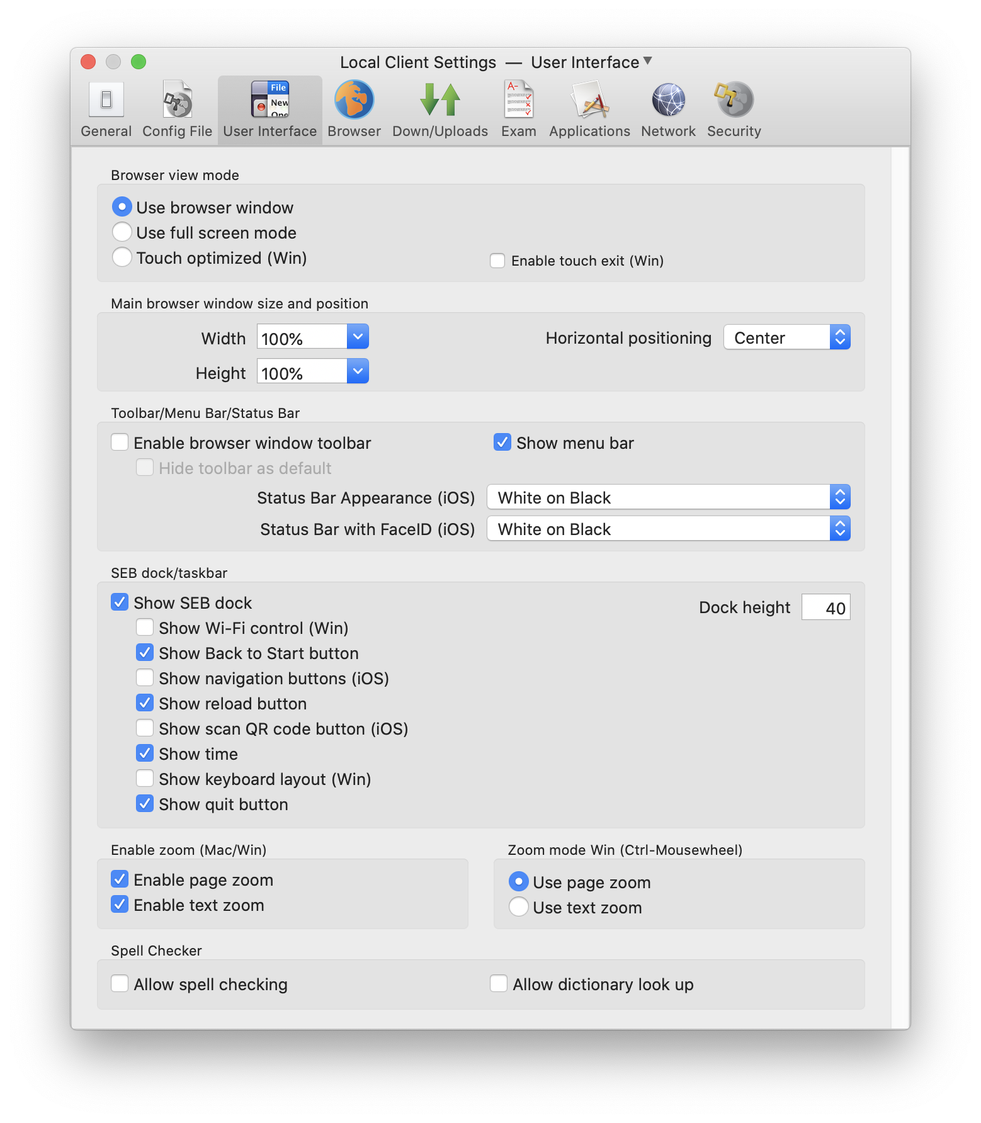
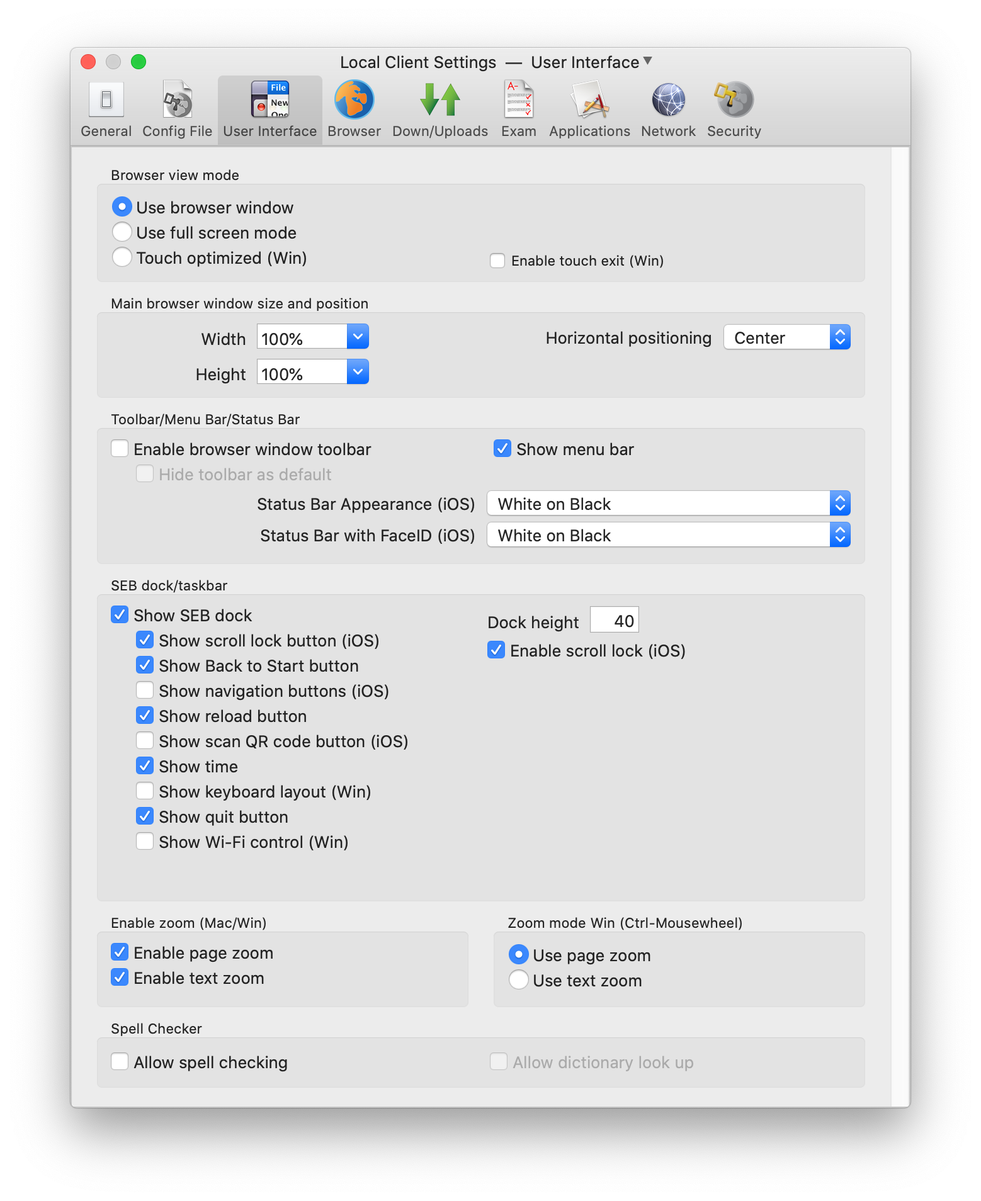
Updated changed settings in the macOS user manual.

diff --git a/macosx/mac_usermanual_en.html b/macosx/mac_usermanual_en.html
@@ -302,7 +302,7 @@
 
           <h2 class="page-header sebnavbar-link" id="introduction">
             <a class="anchorjs-link" href="#introduction"></a>
-            Safe Exam Browser 2.2.1 for macOS
+            Safe Exam Browser 2.3 for macOS
           </h2>
     
           <p>Safe Exam Browser – SEB for macOS opens a web browser window without navigation elements and locks the computer into a kiosk mode, which prevents from switching to other applications or quitting SEB untimely. <span class="half_linespace">SEB enables secure exams on unmanaged computers like students' own laptops as well as in managed environments</span>. Currently SEB integrates with the wide spread learning management systems (LMS) Moodle, OpenOLAT, ILIAS and several non-commercial and commercial exam systems, as for example Inspera Assessment, Dugga, Exam.net or EvaExam. Generally it can easily be used with most web-based online quiz and e-assessment systems.</p>
@@ -485,12 +485,12 @@
 			
           <h4 class="seb-section-header sebnavbar-link" id="ChangesIn2.2">
             <a class="anchorjs-link" href="#ChangesIn2.2"></a>
-            Changes in Safe Exam Browser 2.2.1
-          </h4>
-          <p>SEB 2.2.1 for macOS includes changes which could require you to modify your SEB settings:</p>
+            Changes in Safe Exam Browser 2.3
+          and 2.2</h4>
+          <p>SEB 2.3 for macOS includes changes which could require you to modify your SEB settings (some of these changes were introduced with SEB 2.2.1):</p>
 <ul id="seblist4">
-          <li><strong>SEB 2.2.1 for macOS uses a different policy to decide if it can be reconfigured when a seb(s) URL is opened and a .seb config file downloaded: </strong>When running in a secure session (a quit password is set in the currently active settings), SEB 2.2.1 cannot be reconfigured, even if it's using the persisted client settings. Earlier versions could always be reconfigured when using client settings. If you want to allow reconfiguring SEB by opening a seb(s) URL while running in a secure session, then you need to use the &quot;Allow Reconfiguring&quot; and &quot;Reconfiguring Config URL&quot; options in the <a href="#ExamPane">Exam pane</a>. For the same behavior as in previous versions, you can enable &quot;Allow Reconfiguring&quot; and set &quot;Reconfiguring Config URL&quot; to &quot;*&quot; (wildcard symbol, meaning any seb(s) URL or download URL of a .seb config file is allowed to reconfigure SEB) in your SEB client settings. This policy settings for reconfiguring are already used by SEB for iOS and will also be introduced in SEB 3.1 for Windows.           </li>
-            <li><strong>Preset prohibited processes are required to be quit before starting an exam and are automatically added to any config you open with SEB 2.2.1.</strong> This doesn't alter the Config Key hash. The Browser Exam Key hash value is changed, but that key you anyways have to determine by loading the according SEB config file in SEB 2.2.1 and copy-paste the key from the <a href="#ExamPane">Exam pane</a>. You cannot remove those preset prohibited processes, but you can deactivate them individually using their &quot;Active&quot; parameter. You can change other properties of the prohibited process, although not all of these parameters are used by SEB for macOS. See the <a href="#ProhibitedProcessesSection">Applications/Prohibited Processes pane</a>.  </li>
+          <li><strong>SEB &gt;= 2.2.1 for macOS uses a different policy to decide if it can be reconfigured when a seb(s) URL is opened and a .seb config file downloaded: </strong>When running in a secure session (a quit password is set in the currently active settings), SEB 2.2.1 cannot be reconfigured, even if it's using the persisted client settings. Earlier versions could always be reconfigured when using client settings. If you want to allow reconfiguring SEB by opening a seb(s) URL while running in a secure session, then you need to use the &quot;Allow Reconfiguring&quot; and &quot;Reconfiguring Config URL&quot; options in the <a href="#ExamPane">Exam pane</a>. For the same behavior as in previous versions, you can enable &quot;Allow Reconfiguring&quot; and set &quot;Reconfiguring Config URL&quot; to &quot;*&quot; (wildcard symbol, meaning any seb(s) URL or download URL of a .seb config file is allowed to reconfigure SEB) in your SEB client settings. This policy settings for reconfiguring are already used by SEB for iOS and will also be introduced in SEB 3.1 for Windows.           </li>
+            <li><strong>Preset prohibited processes are required to be quit before starting an exam and are automatically added to any config you open with SEB &gt;= 2.2.1.</strong> This doesn't alter the Config Key hash. The Browser Exam Key hash value is changed, but that key you anyways have to determine by loading the according SEB config file in SEB 2.2.1 and copy-paste the key from the <a href="#ExamPane">Exam pane</a>. You cannot remove those preset prohibited processes, but you can deactivate them individually using their &quot;Active&quot; parameter. You can change other properties of the prohibited process, although not all of these parameters are used by SEB for macOS. See the <a href="#ProhibitedProcessesSection">Applications/Prohibited Processes pane</a>.  </li>
           <li><strong>New separate Mac setting for the Private Clipboard feature</strong>, <a href="#SecurityPane">Security pane</a> &quot;Enforce private clipboard on Mac&quot; (settings key enablePrivateClipboardMacEnforce), by default enabled. If enabled, then the private clipboard is used, even if the old setting in the <a href="#SecurityPane">Security pane</a> &quot;Use private clipboard&quot; is disabled. The reason for the separate Mac setting is, that enabling private clipboard in the Windows version sometimes causes web compatibility issues (which isn't the case in the Mac version). If you intentionally disabled &quot;Use private clipboard&quot; (key enablePrivateClipboard=false) for the Mac version, then you have to set enablePrivateClipboardMacEnforce=false in addition.</li>
           <li><strong>New separate SEB for macOS settings for allowing screen capture/recording</strong>, window capture and to use the legacy method for blocking screen shots. SEB 2.2.1 for macOS is no longer using the old setting &quot;Enable screen capture&quot; which corresponded with the setting &quot;Enable Print Screen&quot; in Windows. Instead, these new settings allow to control access to the screen while SEB is running in a gradual way. The new setting &quot;Allow screen capture/recording&quot; (key allowScreenCapture) controls a system process, which since macOS 10.14 Mojave is used for the macOS screen recording feature (cmd+shift+5) and for screen shots. The new setting &quot;Allow window capture (screen shots)&quot; (key allowWindowCapture) controls if other processes are able to read the contents of the windows displayed by SEB. Depending which system APIs are used to read window or screen contents, those settings have a different effect: If allowScreenCapture=true and allowWindowCapture=false, then macOS screen shots using cmd-shift-3 and -4 can still be taken, but don't show SEB's windows (only the desktop background). On screen recording videos taken with cmd-shift-5, SEB's windows will still be visible, unless allowScreenCapture is set to false. When the new setting &quot;Block screen shots (Legacy)&quot; (key blockScreenShotsLegacy) is enabled, then SEB uses the method to redirect and delete screen shots which had to be used with macOS 10.9 and older. Those separate settings may allow to use SEB with specific remote proctoring solutions which need access to the screen and SEB's window contents.</li>
           <li><strong>New SEB for macOS setting &quot;Enforce blocking screen sharing on Mac&quot;</strong> (key screenSharingMacEnforceBlocked, default value true/enabled), which overrides the original screen sharing setting &quot;Allow (network) screen sharing&quot; (key allowScreenSharing) on Mac clients. This allows for example SEB for Windows to be used in Windows remote sessions (RDP), while still blocking VNC-based macOS screen sharing and remote management on Mac SEB clients. </li>
@@ -618,7 +618,8 @@
             <li><span class="quote">Show SEB dock</span>:  The SEB dock is displaying an icon for the SEB browser with controls for its open browser windows and a quit button, plus additional optional buttons and information widgets (see below and in the <a href="mac_usermanual_en.html#ExamPane">Exam pane</a> for the back to start button). Clicking the SEB icon in the dock and holding the left mouse button down or a secondary (right mouse button) click displays a popup menu with all open browser windows, the main browser window is at the bottom. With this menu you can switch between open browser windows.
               <ul id="seblist">
                 <li><span class="quote">Dock height</span>: SEB Dock height in points (pixel height x 2 on Retina HiDPI displays). In SEB for Windows display DPI settings are now also taken in account, in touch optimized mode task bar is scaled up in addition.</li>
-                <li><span class="quote">Show Wi-Fi control</span> (Win): Allows to reconnect to Wi-Fi networks which have previously been connected to.</li>
+                <li><span class="quote">Show scroll lock button</span> (iOS): Shows the scroll lock button in the Dock if the scroll lock feature is enabled (iOS only).</li>
+                <li><span class="quote">Enable scroll lock</span> (iOS): With the scroll lock button and/or side menu item, web page scrolling, selecting text and the text magnifier can be disabled. This can facilitate using drag-and-drop and drawing question types. (iOS only)</li>
                 <li><span class="quote">Show Back to Start button</span>: Shows the Back to Start button, if this feature in configured in the Exam pane.</li>
                 <li><span class="quote">Show navigation buttons</span> (iOS): Shows navigation buttons (back/forward) in the SEB for iOS Dock. Otherwise these buttons are displayed in the browser toolbar (if enabled), or in the side menu.</li>
                 <li><span class="quote">Show reload button</span>: This button  reloads the current web page. Shows warning if enabled in the Browser  pane.</li>
@@ -626,13 +627,14 @@
                 <li><span class="quote">Show time</span>: Displays current time in SEB task bar: This is for example helpful if you decide to ban personal watches in exams (because of smartwatches).</li>
                 <li><span class="quote">Show keyboard layout</span> (Win): Shows current keyboard layout and allows to switch to other keyboard layouts which have been enabled in Windows.</li>
                 <li><span class="quote">Show quit button</span>: Shows the Quit SEB/Session (iOS) Dock button.</li>
+                <li><span class="quote">Show Wi-Fi control</span> (Win): Allows to reconnect to Wi-Fi networks which have previously been connected to.</li>
               </ul>
             </li>
             <li><span class="quote">Enable page zoom</span>: Pages can be zoomed with Cmd +/- or the commands in the view menu and buttons in browser window toolbar (Mac) or with Ctrl-Mousewheel (Win).</li>
             <li><span class="quote">Enable text zoom</span>: Text in browser windows can be zoomed with Ctrl - Cmd +/- or the commands in the view menu and buttons in browser window toolbar (Mac) or with Ctrl-Mousewheel (Win).</li>
             <li><span class="quote">Zoom Mode</span> (Win): Zoom whole web pages or just text using Ctrl-Mousewheel (only in Windows version)</li>
             <li><span class="quote">Allow spell checking</span>: Allow using check spelling/grammar and 'correct spelling automatically'</li>
-            <li><span class="quote">Allow dictionary look up</span>: Allow looking up text elements on a web site using the 3-finger tap on a trackpad or Ctrl-Cmd-D</li>
+            <li><span class="quote">Allow dictionary look up</span>: Allow looking up text elements on a web site using the 3-finger tap on a trackpad or Ctrl-Cmd-D. Not possible with the AAC macOS kiosk mode.</li>
           </ul>
           
           <h4 class="seb-section-header sebnavbar-link" id="BrowserPane">
@@ -790,10 +792,10 @@
             <li><span class="quote">Clear on session end</span>: Session cookies should be cleared when ending the current exam session (when reconfiguring SEB).</li>
           </ul>
       
-		  <h5>Query String Parameter (iOS)</h5>
+		  <h5>Query String Parameter</h5>
 		  <p>The seb(s):// link to the config file can contain an additional query string, separated from the main URL by '?' or '??' (if the URL itself doesn't contain a query). SEB will then append this query string to the Start URL. This feature can for example be used to pass an individual login token to an exam system when SEB is started by opening an seb(s) link  in another browser, without having to generate an individual config file for each user.</p>
 		  <ul>
-            <li><span class="quote">Allow Query Parameter</span>: If a seb(s):// link contains an additional query string, SEB appends it to the exam's Start URL. Currently only supported in SEB for iOS.</li>
+            <li><span class="quote">Allow Query Parameter</span>: If a seb(s):// link contains an additional query string, SEB appends it to the exam's Start URL.</li>
           </ul>
       
 		  <h5>Exam Deep Linking (iOS)</h5>
@@ -839,7 +841,7 @@
             <li><span class="quote">Description</span>: Optional, should explain what kind of process this is, because this might not be obvious only from the executable's name.</li>
             <li><span class="quote">OS</span>: Indicates on which operating system the permitted process runs (currently only the option <span class="quote">Win</span> works).</li>
             <li><span class="quote">Executable</span>: File name of the executable, <strong>which should not contain any parts of a file system path</strong>, only the filename of the exe file (like <span class="quote">calc.exe</span>).</li>
-            <li><span class="quote">Window Handling Process</span>: Process executable which is actually handling the main window, this is necessary to indicate for Java and some other applications (for example OpenOffice, Eclipse, Adobe Acrobat).</li>
+            <li><span class="quote">Original Name</span>: Original file name of the executable (Win). Some files don't have this metadata information. If it is available, SEB will prioritize this string over the Executable file name string.</li>
             <li><span class="quote">Path</span>: Optional filesystem path (formatted system specific) to the process executable's directory <strong>excluding the filename, see field executable</strong>. If the path is not given or relative, then SEB searches the system provided paths for applications. For applications which have been installed and properly registered in Windows  App Paths you don't need to specify the path.</li>
             <li><span class="quote">Arguments</span> to append to the executable  of the application when starting it. You can select if an argument is <span class="quote">active</span> or not (for testing). You can add and remove arguments using the <span class="quote">+/-</span> buttons.</li>
             <li><span class="quote">Icon in task bar</span>: Mainly useful for background processes (not requiring user interaction) which you want to autostart when SEB is run.</li>
@@ -890,14 +892,13 @@
             <li><span class="quote">Description</span>: Optional, should explain what kind of process this is, because this might not be obvious only from the executable's name.</li>
             <li><span class="quote">OS</span>: Indicates on which operating system SEB should watch for the prohibited process  (currently only <span class="quote">Win</span> works).</li>
             <li><span class="quote">Identifier:</span> Bundle Identifier string of the process  in reverse domain notation (Mac) or the string or substring of the main window title of a process which doesn't have a MainWindow handle (Win), this is usually the case with Java applications (use for example 'OpenOffice' for OpenOffice Calc). </li>
-            <li><span class="quote">User</span><br />
-              Username  under which this process is running.  If no user is indicated, then the process is killed regardless under which user it's running. Instead of this identifier also check box current user can be used. <strong>Not used in current SEB versions.</strong></li>
             <li><span class="quote">Current user</span><br />
               Boolean indicating that the prohibited process has to run under the currently logged in user. Use it instead of indicating the user identifier (<em>user</em> field). <strong>Not used in current SEB versions.</strong></li>
+            <li><span class="quote">Original Name</span>: Original file name of the executable (Win). Some files don't have this metadata information. If it is available, SEB will prioritize this string over the Executable file name string.</li>
             <li><span class="quote">Force quit</span>: Indicates whether an application/process may be terminated in a not-nice way, what may cause data loss if the application had unsaved data in memory or was just writing to a persistent memory/drive. If this application is safe to be terminated anytime, then enabling this setting  helps to avoid bothering users: Because if this setting is disabled and the application is running when SEB is started, then an alert/dialogue window is displayed to ask the user to quit this prohibited application together with  permitted applications and to restart SEB afterwards (or to let SEB terminate the applications risking that there could be data loss).<br />
               Disabling this setting  does not mean that processes are not killed: Depending on the platform's capabilities, SEB first tries to terminate prohibited processes nicely or asking the user to do it themselves, if this doesn't work then it terminates them anyways (as long as <em>monitor processes</em> is enabled). But enabling <em>Force quit</em> will speed up this process.<br />
               This flag should not be set for macOS applications which allow to be terminated nicely (they are anyways automatically terminated, without asking the user).</li>
-            <li><span class="quote">Ignore in AAC</span>: When using the  AAC (Automatic Assessment Configuration or simpler Assessment Mode) kiosk mode which prevents network and screen access for other processes, ignore this prohibited process. AAC will be available in SEB 2.3 for macOS when running on macOS Catalina 10.15.4 or newer. When this macOS built-in single app mode is used, terminating most processes is unnecessary.</li>
+            <li><span class="quote">Ignore in AAC</span>: When using the  AAC (Automatic Assessment Configuration or simpler Assessment Mode) kiosk mode which prevents network and screen access for other processes, ignore this prohibited process,  when running on macOS Catalina 10.15.4 or newer. When this macOS built-in single app mode is used, terminating most processes is unnecessary.</li>
               <!--
             <li><span class="quote">Code Signatures</span>: Displays detail information about the code signatures which allow to undoubtedly identify the process or application. To cover different versions of a process binary/application, multiple signatures can be added. This isn't necessary if the process binaries/applications are signed with a trusted signature (on OS X by Apple), because the signature identifies an application independently of the program version. Also you can generate code signatures here.</li> -->
           </ul>
@@ -1017,20 +1018,10 @@ certificates extend the system trust store (as if you had manually added them to
           </h4>
           
           <div class="mac_prefs_screenshot">
-            <img class="img-responsive" src="images/SEB_PreferencesSecurityOSSpecific-en.png" width="762" alt="SEB Preferences Window Security Pane, System Lockdown Tab" />
+            <img class="img-responsive" src="images/SEB_PreferencesSecurityOSSpecific-en.png" width="762" alt="SEB Preferences Window Security Pane, System Lockdown Tab" /><br />&nbsp;
           </div>
-          
           <ul id="seblist">
-            <li><span class="quote">SEB Service policy</span>: The SEB Service is a background process running with elevated privileges (with administrator rights), which is necessary to block and unblock some system features. You can define the policy that applies when the SEB Service isn't running (for whatever reason):
-          </li>
-              <ul id="seblist">
-                <li><span class="quote">allow to use SEB without service</span>:  SEB  is allowed to run without the SEB Service, it will only be noted in the log that the service was not securing the computer during the exam.</li>
-                <li><span class="quote">warn when service is not running</span>: A warning is displayed when the service is not installed/running, but the exam can be started.</li>
-                <li><span class="quote">allow to use SEB only with service</span>:  SEB  is only allowed to run when the SEB Service is installed. <br />
-                </li>
-            </ul>
-                <strong>SEB  for macOS doesn't  use a SEB Service.</strong> This setting has an effect in SEB for Windows only.<br />&nbsp;
-            <li><span class="quote">Allow SEB to run inside virtual machine</span>: Indicates if SEB is allowed to run in a virtual machine (e.g. for exams in virtual desktop environments) or not (in order to prevent potential manipulations).</li>
+          <li><span class="quote">Allow SEB to run inside virtual machine</span>: Indicates if SEB is allowed to run in a virtual machine (e.g. for exams in virtual desktop environments) or not (in order to prevent potential manipulations).</li>
             <li><span class="quote">Allow screen capture/recording</span>:  Allows macOS screen capture (screen shots) and recording (cmd-shift-3/-4/-5) to be used. If users have the DropBox client installed and activated to upload screen shots directly to their DropBox, then this will also be stopped when screen capture is disabled.</li>
             <li><span class="quote">Allow window capture (screen shots)</span>:  Shows or hides SEB windows on macOS screen shots (invoked with cmd-shift-3/-4/-5).</li>
             <li><span class="quote">Block screen shots (Legacy)</span>:  Use legacy method to block macOS screen shots (invoked with cmd+shift+3/+4/+5). Disable together with enabling settings 'Allow screen capture/recording' and 'Allow window capture (screen shots)' will allow to take screen shots on Mac. Use 'Enable Print Screen' in Hooked Keys tab to allow screen shots to be taken in SEB for Windows.</li>
@@ -1079,6 +1070,19 @@ Please note that internet bots can cause the screen sharing lock screen to be tr
           
           <ul id="seblist">
             <li><span class="quote">System Lockdown</span>: The <span class="quote">Kiosk mode</span>  settings reflect how the computer is locked down while SEB is running, see <a href="win_usermanual_en.html#SecurityPane">Windows manual</a> for details. </li>
+            <li>
+              <div class="mac_prefs_screenshot"></div>
+              <ul id="seblist2">
+                <li><span class="quote">SEB Service policy</span>: The SEB Service is a background process running with elevated privileges (with administrator rights), which is necessary to block and unblock some system features. You can define the policy that applies when the SEB Service isn't running (for whatever reason): </li>
+                <ul id="seblist2">
+                  <li><span class="quote">allow to use SEB without service</span>:  SEB  is allowed to run without the SEB Service, it will only be noted in the log that the service was not securing the computer during the exam.</li>
+                  <li><span class="quote">warn when service is not running</span>: A warning is displayed when the service is not installed/running, but the exam can be started.</li>
+                  <li><span class="quote">allow to use SEB only with service</span>:  SEB  is only allowed to run when the SEB Service is installed. <br />
+                  </li>
+                </ul>
+                <strong>SEB  for macOS doesn't  use a SEB Service.</strong> This setting has an effect in SEB for Windows only.
+              </ul>
+            </li>
             <li><span class="quote">Registry</span>: Select which options in the Windows Security Screen invoked by Ctrl-Alt-Del should be available while SEB is running (switch user, lock this computer, change a password, start Task Manager, log off, shut down, ease of access). In addition the Registry setting <span class="quote">Enable VMware Client Shade</span> activates the 'Shade' bar at the upper edge of a virtual desktop. If you're not using VMware, this setting doesn't have any effect.</li>
             <li><span class="quote">Hooked Keys</span>: Here you can select which special and function keys are blocked or enabled.  Same as in macOS, if users have the DropBox client installed and activated to upload screen shots directly to their DropBox, then this will also be stopped when Print Screen is disabled.<br>
               <strong>One setting in the Hooked Keys pane 
@@ -1103,19 +1107,19 @@ Please note that internet bots can cause the screen sharing lock screen to be tr
           <p>SEB for macOS is running on 64-bit Intel Macs with the following operating systems:</p>
                
           <ul id="seblist">
-            <li>macOS 10.15 Catalina</li>
+            <li>macOS 11 Big Sur</li><li>macOS 10.15 Catalina</li>
             <li>macOS 10.14 Mojave</li>
             <li>macOS 10.13 High Sierra</li>
             <li>macOS 10.12 Sierra</li>
             <li>OS X 10.11 El Capitan</li>
           </ul>
-          <p>Limited support (by changing default value for <span class="quote"><a href="#SecurityPane">minimal macOS version</a></span>):<br>
+          <p>Limited support (by changing default value for <span class="quote"><a href="#SecurityPane">minimal macOS version</a></span>), only supported as client, preferences window not available:<br>
           </p>
           <ul>
             <li>OS X 10.10 Yosemite</li>
             <li>OS X 10.9 Mavericks</li>
             <li>OS X 10.8 Mountain Lion (TLS/SSL/CA certificate embedding and certificate pinning not supported)</li>
-            <li>OS X 10.7 Lion (only supported as client, preferences window not available. TLS/SSL/CA certificate embedding and certificate pinning not supported)<br>
+            <li>OS X 10.7 Lion (TLS/SSL/CA certificate embedding and certificate pinning not supported)<br>
             </li>
             <li>Only supported by SEB 1.5.2: Mac OS X 10.6 Snow Leopard</li>
           </ul>
